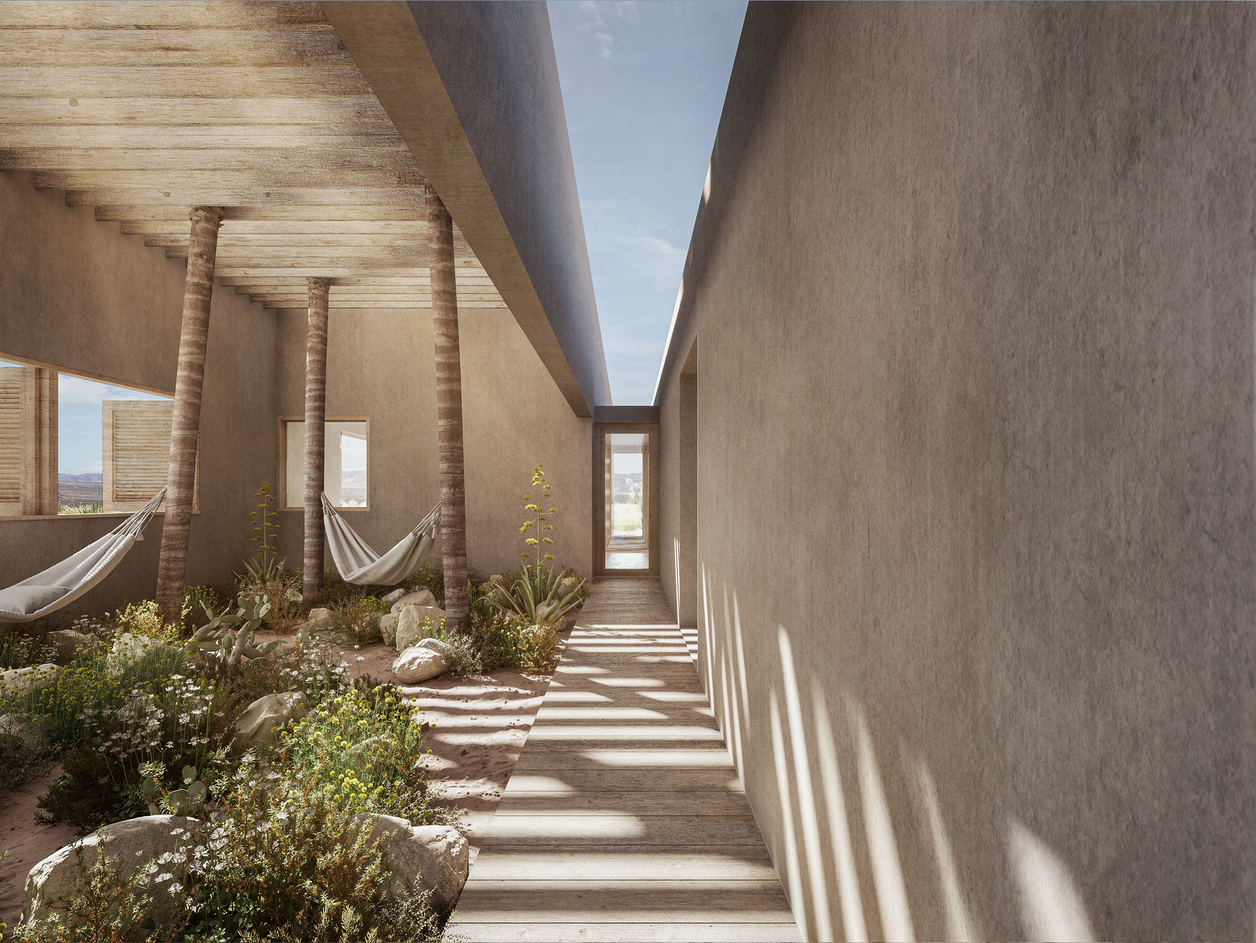
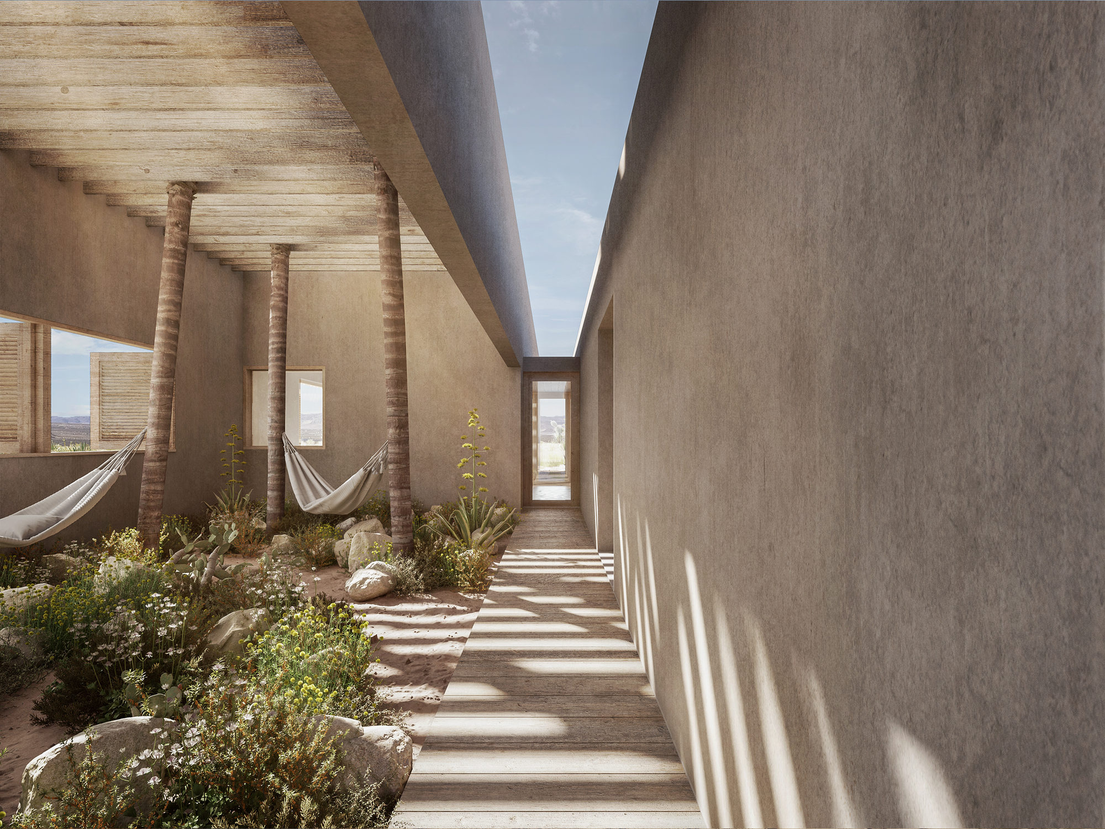
Optimise the image set and replace BL Community 02 Gemini
New Gemini output for BL Community 02.

Images are capped at 2000px on the long side and re-encoded as progressive
JPEG at q82 with no chroma subsampling, and the ChatGPT PNGs are now JPEG
too: 55 MB -> 15 MB. The Prospect's files were already inside those bounds
so they are untouched, byte for byte. Every output is a .jpg again, so the
per-project extension map is gone.

diff --git a/app.js b/app.js
@@ -4,19 +4,12 @@
 
   /* Examples are numbered only. `outputs` lists the AI outputs a project has;
      an example with only one output gets no toggle. `exampleOutputs` narrows
-     that for individual examples whose set is not complete yet. `ext`
-     overrides the default jpg extension for an output supplied as png. */
+     that for individual examples whose set is not complete yet. */
   var PROJECTS = [
     { id: 'the-prospect',  name: 'The Prospect',  count: 4, outputs: ['gemini', 'chatgpt'] },
-    { id: '29',            name: '29',            count: 3, outputs: ['gemini', 'chatgpt'],
-      ext: { chatgpt: 'png' } },
-    { id: 'bl-community',  name: 'BL Community',  count: 4, outputs: ['gemini', 'chatgpt'],
-      ext: { chatgpt: 'png' } }
+    { id: '29',            name: '29',            count: 3, outputs: ['gemini', 'chatgpt'] },
+    { id: 'bl-community',  name: 'BL Community',  count: 4, outputs: ['gemini', 'chatgpt'] }
   ];
-
-  function extFor(p, key) {
-    return (p.ext && p.ext[key]) || 'jpg';
-  }
 
   function outputsFor(p, name) {
     return (p.exampleOutputs && p.exampleOutputs[name]) || p.outputs;
@@ -135,7 +128,7 @@
     outputs.forEach(function (key) {
       var img = new Image();
       img.className = 'out out-' + key;
-      img.src = base + '--' + key + '.' + extFor(p, key);
+      img.src = base + '--' + key + '.jpg';
       img.alt = p.name + ' ' + name + ' - ' + LABELS[key] + ' output';
       img.loading = lazy;
       img.decoding = 'async';
